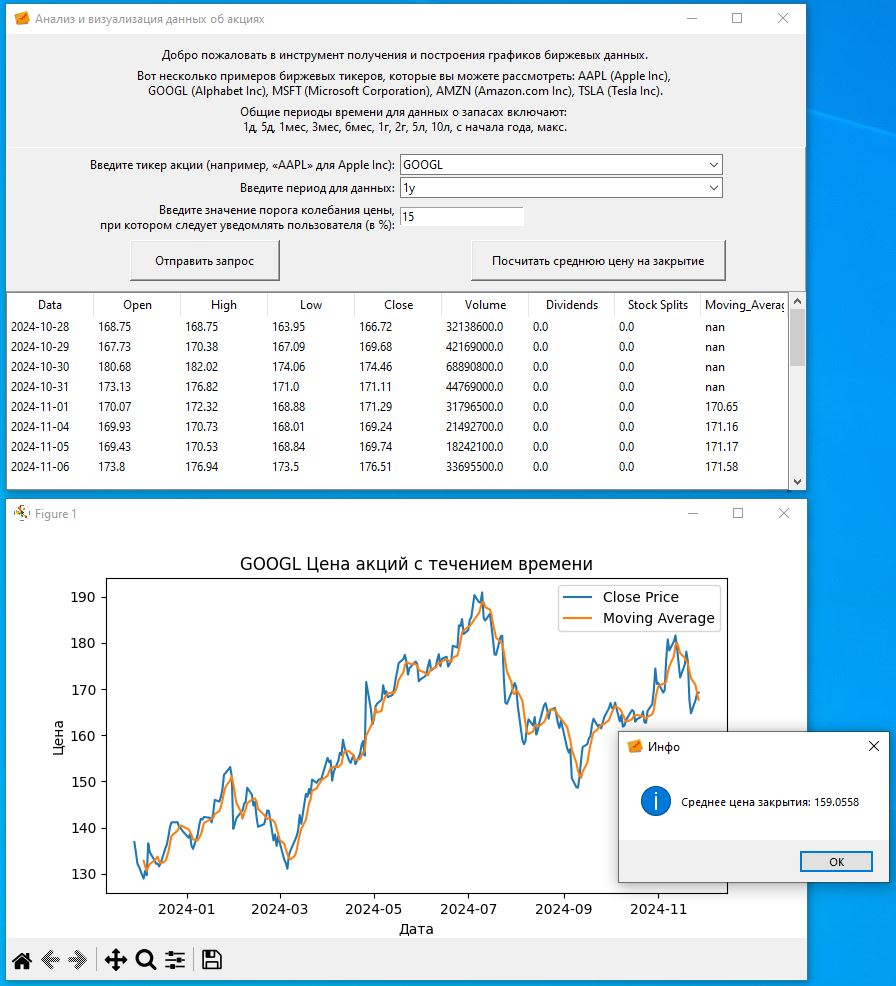
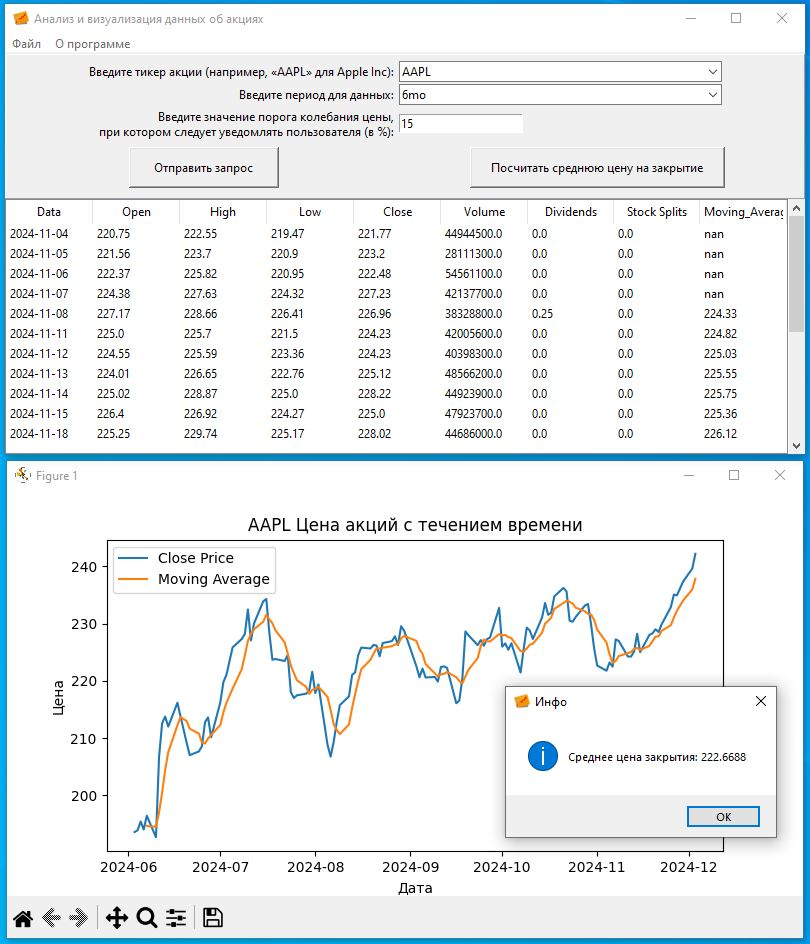
Добавить возможность экспортировать данные в CSV формате

diff --git a/main_win.py b/main_win.py
@@ -1,8 +1,10 @@
+import math
 import data_download as dd
 import data_plotting as dplt
 import tkinter as tk
 from tkinter import ttk
 from tkinter.constants import *
+from constants import *
 from tkinter import messagebox as mb
 from pandas import DataFrame
 
@@ -15,10 +17,10 @@ def query_data(ticker: str, period: str) -> DataFrame:
                    ['1d', '5d', '1mo', '3mo', '6mo', '1y', '2y', '5y', '10y', 'ytd', 'max']
     :return: Объект класса DataFrame (pandas)
     """
-    # Fetch stock data
+    # Получить данных
     stock_data = dd.fetch_stock_data(ticker, period)
 
-    # Add moving average to the data
+    # Добавить скользящее среднее значение к данным
     stock_data = dd.add_moving_average(stock_data)
 
     return stock_data
@@ -28,8 +30,18 @@ class Ticker:
     """
     Класс GUI со всеми элементами и методами окна
     """
-    def __init__(self, win):
+    def __init__(self, win: tk.Tk):
         self.win = win
+        self.win.option_add("*tearOff", FALSE)
+
+        self.file_menu = tk.Menu()
+        self.file_menu.add_command(label='Сохранить в CSV', command=self.save_csv)
+
+        self.main_menu = tk.Menu()
+        self.main_menu.add_cascade(label='Файл', menu=self.file_menu)
+        self.main_menu.add_command(label='О программе', command=self.show_info)
+        # self.win.bind_all('<F1>', self.show_info)
+
         self.win.title('Анализ и визуализация данных об акциях')
         try:
             self.win.iconbitmap(default="./favicon.ico")
@@ -37,63 +49,54 @@ class Ticker:
             # self.win.iconbitmap(default=os.path.join(sys._MEIPASS, "./favicon.ico"))
         except:
             pass
-        self.win.geometry("800x400")
-        self.win.minsize(700, 300)
+        screen_width = self.win.winfo_screenwidth()
+        screen_height = self.win.winfo_screenheight()
+        x = (screen_width / 2) - 400
+        y = (screen_height / 2) - 200
+        self.win.geometry('%dx%d+%d+%d' % (800, 400, x, y))
+        self.win.minsize(700, 250)
+        self.win.config(menu=self.main_menu)
 
-        self.frame1 = tk.Frame(self.win, padx=10, pady=10)
-        self.frame1.pack()
         self.frame2 = tk.Frame(self.win, padx=5, pady=5, relief=RIDGE, border=1)
         self.frame2.pack(fill="both", expand=False)
         self.frame2.columnconfigure(0, weight=1)
         self.frame2.columnconfigure(1, weight=1)
         # self.frame2.rowconfigure(4, weight=1)
 
-        self.lab1 = tk.Label(self.frame1, text="Добро пожаловать в инструмент получения и построения графиков "
-                                               "биржевых данных.", justify='center')
-        self.lab1.grid(row=1, column=1)
-
-        self.lab2 = tk.Label(self.frame1, text="Вот несколько примеров биржевых тикеров, которые вы можете рассмотреть: "
-                                               "AAPL (Apple Inc), \nGOOGL (Alphabet Inc), MSFT (Microsoft Corporation), "
-                                               "AMZN (Amazon.com Inc), TSLA (Tesla Inc).", justify='center')
-        self.lab2.grid(row=2, column=1)
-
-        self.lab3 = tk.Label(self.frame1, text="Общие периоды времени для данных о запасах включают: \n1д, 5д, 1мес, "
-                                               "3мес, 6мес, 1г, 2г, 5л, 10л, с начала года, макс.", justify='center')
-        self.lab3.grid(row=3, column=1)
-
         self.lab4 = tk.Label(self.frame2, text="Введите тикер акции (например, «AAPL» для Apple Inc):", justify='right')
-        self.lab4.grid(row=1, column=0, sticky=E)
+        self.lab4.grid(row=0, column=0, sticky=E)
 
         self.lab5 = tk.Label(self.frame2, text="Введите период для данных:", justify='right')
-        self.lab5.grid(row=2, column=0, sticky=E)
+        self.lab5.grid(row=1, column=0, sticky=E)
 
         self.lab5 = tk.Label(self.frame2, text="Введите значение порога колебания цены,\n"
                                                "при котором следует уведомлять пользователя (в %):", justify='right')
-        self.lab5.grid(row=3, column=0, sticky=E)
+        self.lab5.grid(row=2, column=0, sticky=E)
 
         self.list_tik = ['AAPL', 'GOOGL', 'MSFT', 'AMZN', 'TSLA']
         self.tik_entry = ttk.Combobox(self.frame2, width=50, values=self.list_tik)
-        self.tik_entry.grid(row=1, column=1, sticky=W, padx=2, pady=1)
+        self.tik_entry.grid(row=0, column=1, sticky=W, padx=2, pady=1)
         self.tik_entry.insert(0, 'GOOGL')
 
         self.list_period = ['1d', '5d', '1mo', '3mo', '6mo', '1y', '2y', '5y', '10y', 'ytd', 'max']
         self.period_entry = ttk.Combobox(self.frame2, width=50, values=self.list_period)
-        self.period_entry.grid(row=2, column=1, sticky=W, padx=2, pady=1)
+        self.period_entry.grid(row=1, column=1, sticky=W, padx=2, pady=1)
         self.period_entry.insert(0, '1mo')
 
         validate_digit_command = self.win.register(self.__validate_digit_input)
         self.fluctuations_entry = tk.Entry(self.frame2, width=20, validate='key',
                                            validatecommand=(validate_digit_command, '%P'))
-        self.fluctuations_entry.grid(row=3, column=1, sticky=W, padx=2)
-        self.fluctuations_entry.insert(0, '15')
+        self.fluctuations_entry.grid(row=2, column=1, sticky=W, padx=2)
+        self.fluctuations_entry.insert(0, str(FLUCTUATIONS_DEFAULT))
 
         self.button_plot = tk.Button(self.frame2, text="Отправить запрос", width=20, height=2,
                                      command=self.button_plot_click)
-        self.button_plot.grid(row=4, column=0)
+        self.button_plot.grid(row=3, column=0)
+        # self.button_plot.bind('<Return>', self.button_plot_click)
 
         self.button_mean = tk.Button(self.frame2, text="Посчитать среднюю цену на закрытие", width=35, height=2,
                                      command=self.button_mean_click)
-        self.button_mean.grid(row=4, column=1, padx=5, pady=5)
+        self.button_mean.grid(row=3, column=1, padx=5, pady=5)
 
         ticker = self.tik_entry.get().upper()
         period = self.period_entry.get()
@@ -104,14 +107,21 @@ class Ticker:
         self.table.configure(yscrollcommand=self.scrollbar.set)
         self.scrollbar.pack(side=RIGHT, fill=Y)
         self.table.pack(side=TOP, fill=BOTH, expand=True)
+        # self.win.after_idle(self.show_info)
 
-    def __validate_digit_input(self, new_value):
+    def show_info(self):
+        """
+        Показать информацию о приложении
+        """
+        mb.showinfo(title='Добро пожаловать!', message=INFO)
+
+    def __validate_digit_input(self, new_value: str) -> bool:
         """
         Метод для валидации ввода значения в поле порога уведомления
         """
         if new_value == "":
             return True
-        elif new_value.isdigit() or '.' in new_value:
+        elif new_value.isdigit() or new_value.count('.') < 2:
             return True
         else:
             return False
@@ -131,15 +141,21 @@ class Ticker:
         for row in range(len(self.stock_data.values)):
             self.table.insert('', END, values=[(str(self.stock_data.index[row]).split()[0])] +
                                               [round(i, 2) for i in self.stock_data.values[row]])
-        try:
-            threshold = float(self.fluctuations_entry.get())
-        except ValueError:
-            threshold = int('0' + self.fluctuations_entry.get().split('.')[0])
-            self.fluctuations_entry.delete(0, END)
-            self.fluctuations_entry.insert(0, str(threshold))
+        threshold = float(self.fluctuations_entry.get())
         message = dplt.notify_if_strong_fluctuations(self.stock_data, threshold)
         if message:
             mb.showwarning('Предупреждение!!!', message)
+
+    def save_csv(self):
+        ticker = self.tik_entry.get().upper()
+        period = self.period_entry.get()
+        self.stock_data = query_data(ticker, period)
+        self.__set_table()
+        err = dplt.export_data_to_csv(self.stock_data, ticker=ticker)
+        if not err[0]:
+            mb.showerror(title='Ошибка!', message=err[1])
+        else:
+            mb.showinfo(title='Файл сохранен', message=f'Данные сохранены в файл: {err[1]}.')
 
     def button_plot_click(self):
         """
@@ -162,12 +178,16 @@ class Ticker:
         ticker = self.tik_entry.get().upper()
         period = self.period_entry.get()
         self.stock_data = query_data(ticker, period)
-        mean_rez = dplt.calculate_and_display_average_price(self.stock_data)
-        mb.showinfo(message=f'Среднее цена закрытия: {mean_rez:.4f}', title='Инфо')
+        mean_close = dplt.calculate_and_display_average_price(self.stock_data)
+        if math.isnan(mean_close):
+            mb.showerror('Ошибка!', 'Не удалось определить среднюю цену закрытия.')
+        else:
+            mb.showinfo(message=f'Среднее цена закрытия: {mean_close:.4f}', title='Инфо')
         self.__set_table()
 
 
 if __name__ == "__main__":
     window = tk.Tk()
     tik = Ticker(window)
+    # tik.win.after_idle(tik.show_info)
     window.mainloop()

diff --git a/main.py b/main.py
@@ -1,3 +1,4 @@
+import math
 import data_download as dd
 import data_plotting as dplt
 
@@ -30,13 +31,23 @@ def main():
 
     # Найти среднюю цену закрытия
     mean_close = dplt.calculate_and_display_average_price(stock_data)
-    print(f'Среднее цена закрытия: {mean_close:.4f}')
+    if math.isnan(mean_close):
+        print('Не удалось определить среднюю цену закрытия.')
+    else:
+        print(f'Среднее цена закрытия: {mean_close:.4f}')
 
     # Проверить колебание цены закрытия за выбранный период
     threshold = float(input('Введите значение порога колебания цены, при котором следует уведомлять пользователя: '))
     message = dplt.notify_if_strong_fluctuations(stock_data, threshold)
     if message:
         print(message)
+
+    # Экспортировать данные в CSV формате
+    err = dplt.export_data_to_csv(stock_data, ticker=ticker)
+    if not err[0]:
+        print('Ошибка! ' + err[1])
+    else:
+        print(f'Данные сохранены в файл: {err[1]}.')
 
 
 if __name__ == "__main__":

diff --git a/data_plotting.py b/data_plotting.py
@@ -3,6 +3,16 @@ import pandas as pd
 from pandas import DataFrame
 
 
+def export_data_to_csv(data: DataFrame, filename: str | None = None, ticker: str = ''):
+    if filename is None:
+        filename = f"{ticker}_{str(data.index[0]).split()[0]}-{str(data.index[-1]).split()[0]}_data.csv"
+    try:
+        data.to_csv(filename, sep=',', encoding='utf-8')
+        return True, f'{filename}'
+    except Exception as er:
+        return False, er.args
+
+
 def notify_if_strong_fluctuations(data: DataFrame, threshold: float, col='Close') -> str | None:
     """
     Метод анализирует данные и уведомляет пользователя, если цена акций колебалась

diff --git a/constants.py b/constants.py
@@ -1,0 +1,10 @@
+FLUCTUATIONS_DEFAULT = 15
+
+INFO = """Добро пожаловать в инструмент получения и построения графиков биржевых данных.
+
+Вот несколько примеров биржевых тикеров, которые вы можете рассмотреть:
+AAPL (Apple Inc), GOOGL (Alphabet Inc), MSFT (Microsoft Corporation), AMZN (Amazon.com Inc), TSLA (Tesla Inc).
+
+Общие периоды времени для данных о запасах включают:
+1д, 5д, 1мес, 3мес, 6мес, 1г, 2г, 5л, 10л, с начала года, макс.
+"""

diff --git a/README.md b/README.md
@@ -5,17 +5,21 @@
 • Графический и консольный интерфейс приложения.  
 • Вывод графика на экран.  
 • Сохранение графика в файл.  
+• Расчет средней цены закрытия.  
 • Выбор периода из списка.  
-• (new) **Выбор тикета из списка.**  
-• (new) **Отображение результата в виде таблицы в графической версии.**  
-• (new) **ООП подход при создании окна графического интерфейса.**  
-• (new) **Добавлена документация функций и классов**  
-• (new) **Добавлена аннотация переменных и функций**  
-• (new) **Добавлено уведомление пользователя, если цена акций колебалась более чем на заданный процент за период**  
-
+• Выбор тикета из списка.  
+• Отображение результата в виде таблицы в GUI версии.  
+• ООП подход при создании окна GUI интерфейса.  
+• Добавлена документация функций и классов.  
+• Добавлена аннотация переменных и функций.  
+• Добавлено уведомление пользователя, если цена акций колебалась более чем на заданный процент за период.  
+• (new) **Организовано меню приложения.**  
+• (new) **Информация о приложении вынесена в отдельный пункт меню `О программе`.**  
+• (new) **Исправлен вывод значений средней цены закрытия в случае невозможности ее вычисления.**  
+• (new) **Добавлена возможность экспортировать данные в CSV формате через меню `Файл/Сохранить в CSV` с выводом результата экспорта пользователю.**  
 
 Для консольной версии запустите `main.py`  
-Для графической версии запустите `main_win.py`  
+Для GUI-версии запустите `main_win.py`  
 
 ### Скриншот интерфейса:
 ![img01](https://github.com/Topotun77/stock_data_analysis/blob/master/ScreenShots/n001.jpg?raw=true)
@@ -23,3 +27,22 @@
 ![img01](https://github.com/Topotun77/stock_data_analysis/blob/master/ScreenShots/n003.jpg?raw=true)
 ### Сообщение в случае превышения порога уведомления о разнице цен:
 ![img01](https://github.com/Topotun77/stock_data_analysis/blob/master/ScreenShots/n004.jpg?raw=true)
+### Меню приложения:
+![img01](https://github.com/Topotun77/stock_data_analysis/blob/master/ScreenShots/n005.jpg?raw=true)
+
+### Консольный вывод приложения:
+```
+Добро пожаловать в инструмент получения и построения графиков биржевых данных.
+Вот несколько примеров биржевых тикеров, которые вы можете рассмотреть: AAPL (Apple Inc), GOOGL (Alphabet Inc), MSFT (Microsoft Corporation), AMZN (Amazon.com Inc), TSLA (Tesla Inc).
+Общие периоды времени для данных о запасах включают: 1д, 5д, 1мес, 3мес, 6мес, 1г, 2г, 5г, 10л, с начала года, макс.
+Введите тикер акции (например, «AAPL» для Apple Inc): aapl
+Введите период для данных (например, '1mo' для одного месяца): 3mo
+График сохранен как AAPL_3mo_stock_price_chart.png
+Среднее цена закрытия: 227.5798
+Введите значение порога колебания цены, при котором следует уведомлять пользователя: 10
+Цена акций колебалась более чем на 10.0 % за выбранный период.
+Максимальная цена: 242.39999389648438
+Минимальная цена: 216.082275390625
+Колебание составило: 12.18 %
+Данные сохранены в файл: AAPL_2024-09-03-2024-12-03_data.csv.
+```
